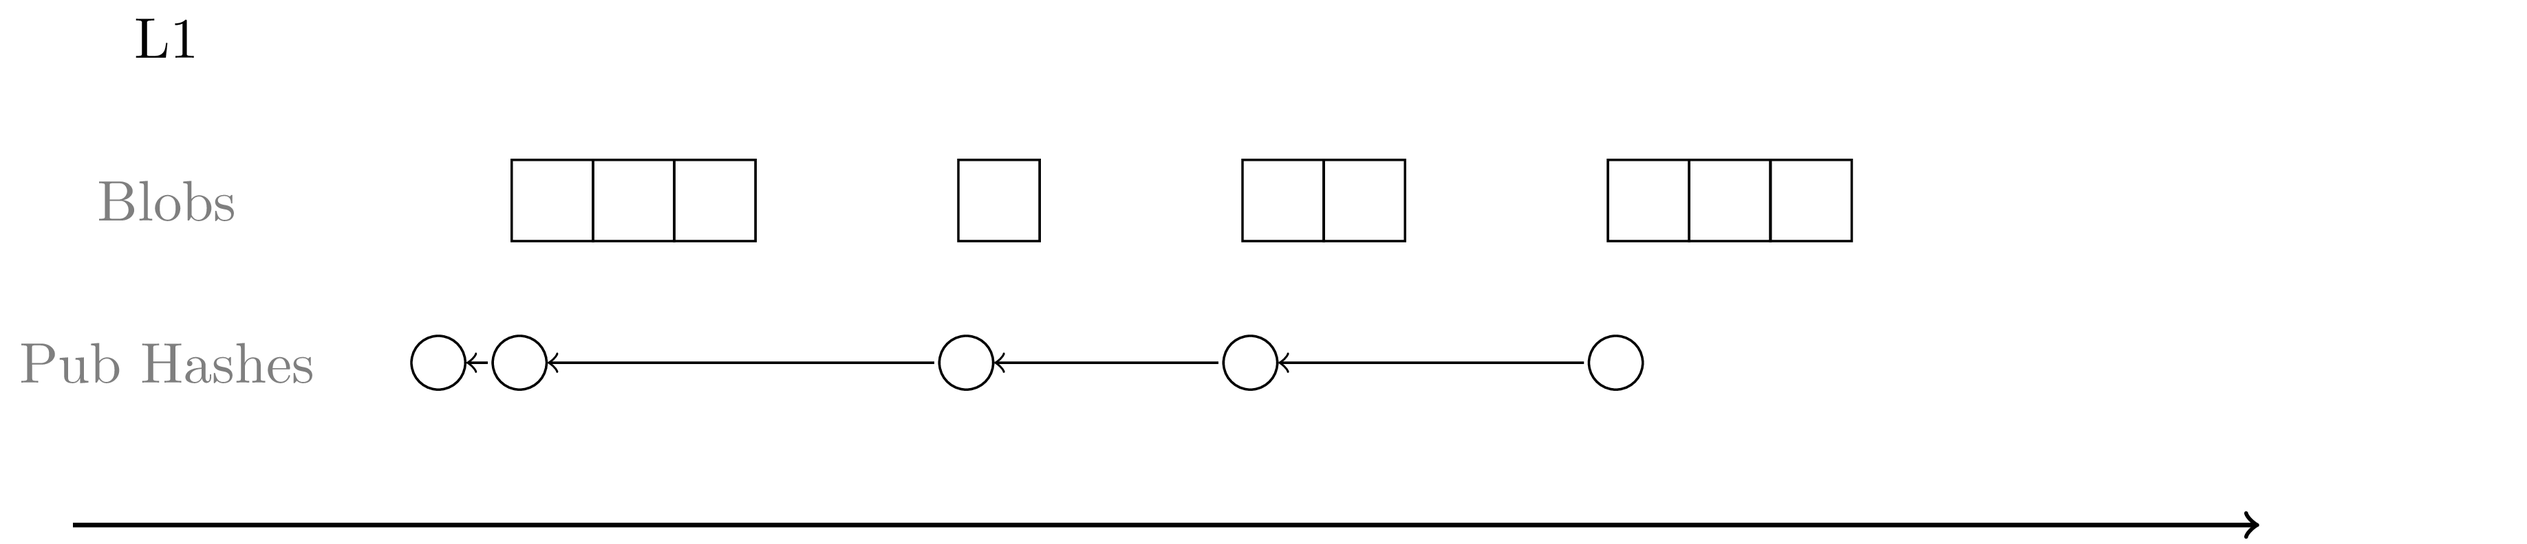
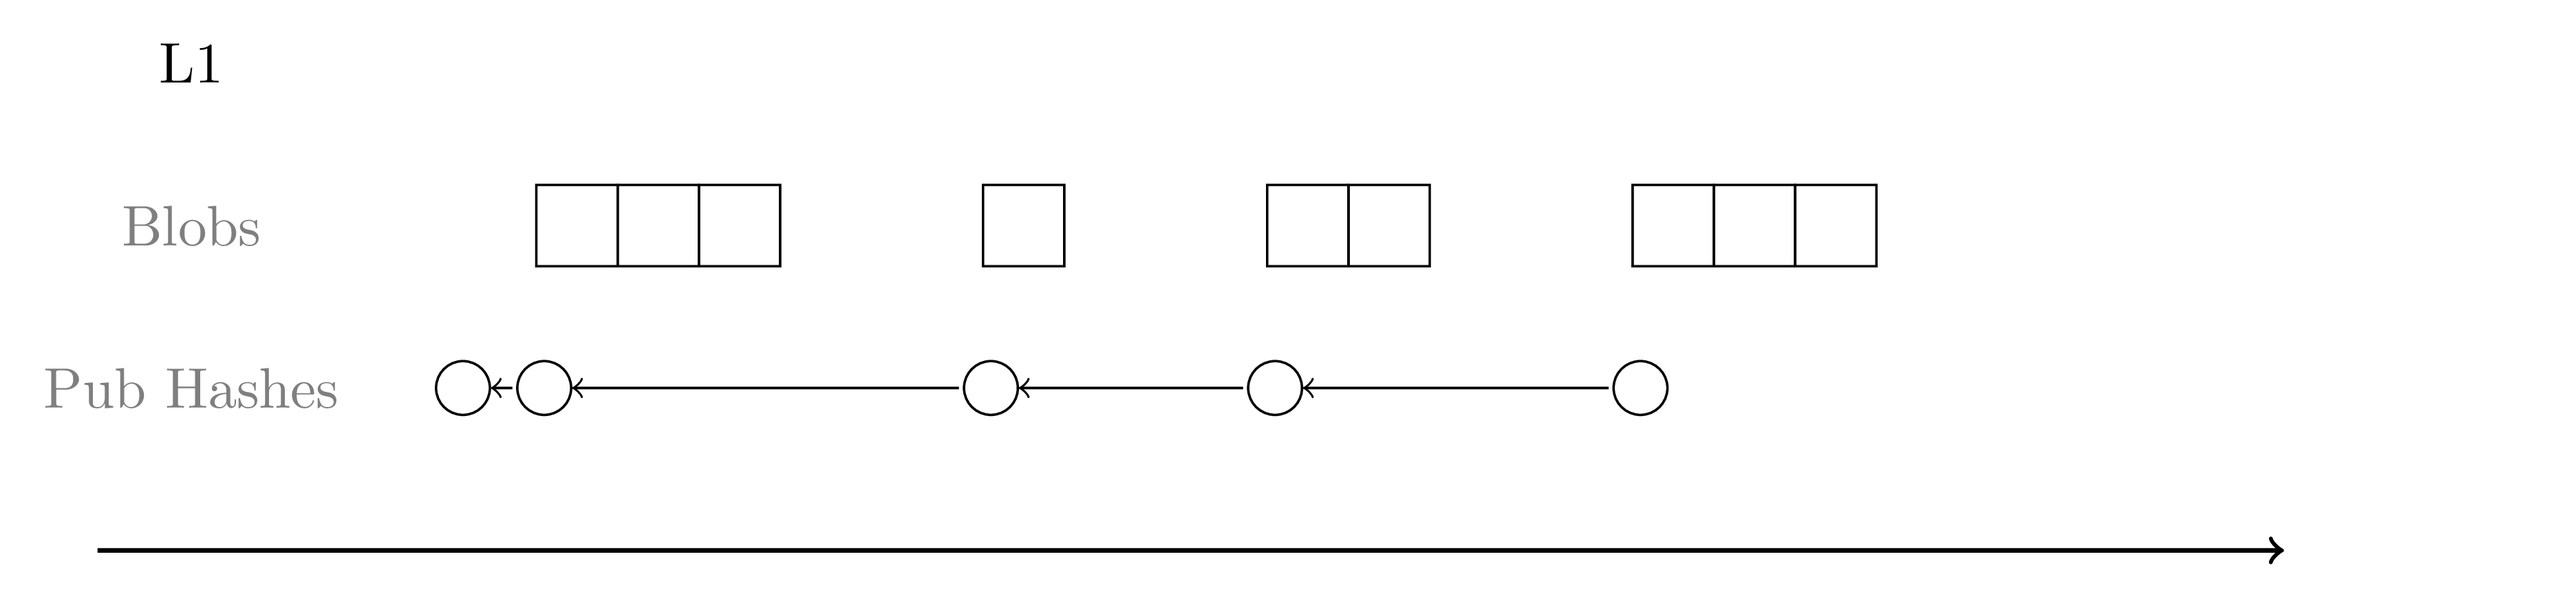
Add white background to all images

diff --git a/documentation/design_images.tex b/documentation/design_images.tex
@@ -2,6 +2,7 @@
 \usepackage{tikz}
 \usetikzlibrary{positioning}
 \usetikzlibrary {shapes.geometric}
+\usetikzlibrary {backgrounds}
 \usepackage[nomessages]{fp}
 
 % We will update these variables to reuse commands within a diagram
@@ -17,6 +18,7 @@
 \tikzstyle{txOrigin} = [circle, draw, fill=lightgray, inner sep=2]
 \tikzstyle{contract} = [rectangle, rounded corners, text centered, draw, inner sep=10pt]
 \tikzstyle{arrow} = [->]
+\tikzstyle{background rectangle} = [fill=white]
 
 \newcommand{\timeline}{
     \node (t0) at (0,0) {};
@@ -59,7 +61,7 @@
 
 % Introduce Publication Feed
 \ifnum \sourceNo = 0
-\begin{tikzpicture}
+\begin{tikzpicture}[framed]
     \structure
     \pubHash \blobs{3} 
     \pubHash \blobs{1}
@@ -70,7 +72,7 @@
 
 % Introduce Rollup Inbox
 \ifnum \sourceNo = 1
-\begin{tikzpicture}[node distance=2cm]
+\begin{tikzpicture}[node distance=2cm, framed]
     \node (origin) at (0,0) [txOrigin] {};
     \node (inbox) [right=of origin, contract] {Rollup Inbox};
     \node (pubFeed) [right=of inbox, contract] {\texttt{PublicationFeed}};
@@ -104,7 +106,7 @@
 
 % Introduce L2 blocks
 \ifnum \sourceNo = 2
-\begin{tikzpicture}
+\begin{tikzpicture}[framed]
     \structure
     \pubHash \blobs{3} \rollupBlocks{8}
     \pubHash \blobs{1} \rollupBlocks{5}
@@ -149,7 +151,7 @@
 
 % Introduce Checkpoints
 \ifnum \sourceNo = 3
-\begin{tikzpicture}
+\begin{tikzpicture}[framed]
     \structure
     \genesisCheckpoint \saveCheckpoint
 
@@ -218,7 +220,7 @@
 \tikzstyle{pubHash} = [circle, color=\col, anchor=west] % remove "draw"
 \tikzstyle{arrow} = [opacity=0]
 
-\begin{tikzpicture}
+\begin{tikzpicture}[framed]
     \structure
     \node [gray, anchor=west] at (nextPubHash) {[Described below]};
 
@@ -270,7 +272,7 @@
 
 % Non-shared publications
 \ifnum \sourceNo = 5
-\begin{tikzpicture}
+\begin{tikzpicture}[framed]
     \structure
 
     \switchToA \genesisCheckpoint \saveCheckpoint

diff --git a/documentation/Overall Design.md b/documentation/Overall Design.md
@@ -11,7 +11,7 @@ Recall, a rollup requires:
 
 We want to minimize L1 processing, so for each L1 transaction we simply denote all the blobs and any relevant L1 data as a "publication" and save the publication hash in L1 storage (in the `PublicationFeed` contract).
 
-<p align="center" style="background-color: white;"><img src="./design_images.0.png"/></p>
+<p align="center"><img src="./design_images.0.png"/></p>
 
 All L2 validations occur off-chain, so publications never revert. Invalid publications will be no-ops, but this fact is part of the actual L2 state transition function (so L2 nodes will still process the publication and provers will prove that they are no-ops). This should not happen in practice because there is no reason for anyone to publish a no-op.
 
@@ -21,7 +21,7 @@ Technically, the rollup-specific contract may still choose to revert publication
 - the inbox performs validations, specifies the relevant blobs, and potentially adds additional data.
 - the inbox saves the publication in the `PublicationFeed` contract.
 
-<p align="center" style="background-color: white;"><img src="./design_images.1.png"/></p>
+<p align="center"><img src="./design_images.1.png"/></p>
 
 For example, the `TaikoInbox` contract reverts if:
 
@@ -32,7 +32,7 @@ For example, the `TaikoInbox` contract reverts if:
 
 In any case, it is up to the rollup node to convert the data referenced by the publication hashes into a sequence of L2 blocks.
 
-<p align="center" style="background-color: white;"><img src="./design_images.2.png"/></p>
+<p align="center"><img src="./design_images.2.png"/></p>
 
 
 ## Checkpoints
@@ -45,7 +45,7 @@ We define a checkpoint as the L2 block hash after applying all the transactions 
 
 We expect most proofs to span several publications, so most checkpoints will not be posted to L1. Morever, the current proving market design does not require multiple simultaneous provers, so for simplicity, we do not support parallel proving (i.e. each proof must start from the latest proven checkpoint). Only the latest proven checkpoint is saved in storage (overwriting the previous one).
 
-<p align="center" style="background-color: white;"><img src="./design_images.3.png"/></p>
+<p align="center"><img src="./design_images.3.png"/></p>
 
 ## Delayed Inclusion
 
@@ -61,7 +61,7 @@ Any rollup can introduce a delayed inclusion mechanism by deferring calls to the
 
 We support blob sharing by simplying allowing blobs to contain transactions destined for different rollups, without making any attempt to disentangle them on L1. Rollup nodes must be designed to filter out irrelevant transactions.
 
-<p align="center" style="background-color: white;"><img src="./design_images.4.png"/></p>
+<p align="center"><img src="./design_images.4.png"/></p>
 
 ## Shared Publication Feed
 
@@ -89,4 +89,4 @@ Instead, a publisher is expected to call the inbox of every rollup that should p
 
 As an optimization, the `TaikoInbox` contract includes a pointer to the previous Taiko publication so provers do not need to process the irrelevant publications.
 
-<p align="center" style="background-color: white;"><img src="./design_images.5.png"/></p>
+<p align="center"><img src="./design_images.5.png"/></p>
